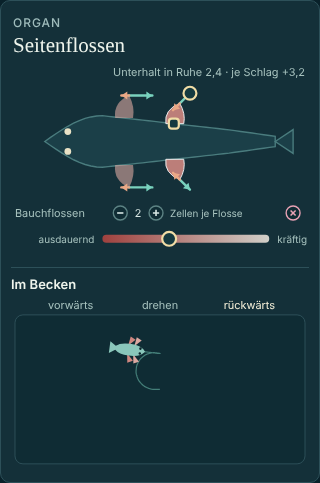
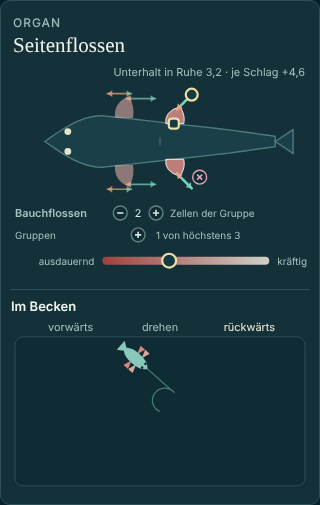
Entwurf Seitenflossen nach Astras Befund: Zellgruppen je Flosse mit eigenem Anteil nach vorn/hinten (gemischte Gruppen heben sich auf), das Gehirn treibt rudernde und bremsende Gruppen getrennt
Claude-Session: https://claude.ai/code/session_01SAD6gcsuZjdDe9bFzLa7Yk

diff --git a/entwuerfe/inspektoren.html b/entwuerfe/inspektoren.html
@@ -2178,90 +2178,96 @@ function mouthFrame(now) {
 requestAnimationFrame(mouthFrame);
 
 // ---------- Seitenflossen ----------
-// Side fins (body_plan.cc:97–131, 1540–1596, movement.cc:83–99). At most two fins a side, the
-// pectoral in front and the pelvic behind; both sides alike here. A fin's cells pull its back
-// stroke with 1 − p of their force and its front stroke with p (p = protraction); the stroke
-// runs at q · 90° to the body's axis (here 0 = along it), so it pushes cos and sideways sin of its
-// force, and turns the fish by push·|lever| + sideways·arm (arm: ahead of the middle or behind).
-// A back stroke drives forward, a front stroke brakes and drives backward. After its
-// antagonist or from rest a stroke sweeps fully; the same again before the fin is back only 0.3;
-// both at once cancel and still cost.
-// Above: the fish from above with its fins; each fin shows its stroke as two arrows from its tip,
-// backward (forward drive) and forward (braking); the arrow tip is the grip: its direction is the
-// stroke's, its length the share. The fin's root slides along the body. Below: a small fish with
-// exactly these fins in a pool, rowing forward, turning on the spot and backing, with its track.
-const FINS = {fins : [{kind : 'Brustflossen', at : .34, q : 0, p : .25, cells : 3, fast : .6}], chosen : 0};
+// Side fins (body_plan.cc:97–131, 405–417, 486–539, 1540–1596, movement.cc:83–99; Astra 19:10).
+// At most two fins a side: the foremost group of cells is the pectoral fin, one behind it the
+// pelvic. A fin's stroke runs at q · 90° to the body's axis. Each group of cells pulls the back
+// stroke with 1 − p of its force and the front stroke with p (p = protraction), both at once when
+// the brain drives the group, so a mixed group cancels its shared part and pays for it: its net is
+// (1 − 2p) of its force, backward if p < ½. Groups with p near 0 and near 1 the brain can drive
+// apart: that is how a fish rows, brakes and backs. A stroke turns the fish by cos·|cross lever|
+// + sin·length lever (ahead of the middle or behind; a sideways stroke at the middle does not
+// turn). Both sides alike here.
+// Above: the fish from above; each group of a fin is an arrow pair at the fin's tip: back (forward
+// drive, teal) and front (braking, orange), as long as its shares; the chosen group's back arrow
+// is the grip (direction = stroke, length = share). Below: a small fish with these fins; the brain
+// drives the groups that row (p < ½) to go forward, the rowing ones on one side and the braking ones
+// on the other to turn, the braking ones to back; whatever the groups can do, the fish does.
+const FINS = {fins : [{kind : 'Brustflossen', at : .34, q : 0, groups : [{p : .1, cells : 3, fast : .6}, {p : .9, cells : 2, fast : .6}]}], chosen : 0, group : 0};
 const FIN_ZONE = {Brustflossen : [.22, .44], Bauchflossen : [.48, .68]};
-const finForce = f => f.cells * forceOf(f.fast);
-// The fish from above: nose to the left; its outline's half width at a share x of its length.
+const groupForce = g => g.cells * forceOf(g.fast);
 const TOP = {x0 : 34, x1 : 266, y : 78, half : 26};
 const topHalf = x => { const u = clamp(x, 0, 1); return TOP.half * (u < .25 ? Math.sin(Math.PI / 2 * u / .25) : u < .8 ? 1 - .55 * (u - .25) / .55 : .45 - .25 * (u - .8) / .2); };
 const topX = u => TOP.x0 + (TOP.x1 - TOP.x0) * u;
 function drawFins() {
   const svg = document.getElementById('finfish'); svg.replaceChildren();
-  const F = FINS, redraw = drawFins;
-  const rest = F.fins.reduce((t, f) => t + 2 * f.cells * Math.pow(.25, f.fast), 0) * .48;
-  txt(svg, 296, 12, `Unterhalt in Ruhe ${fmt(rest)} · je Schlag +${fmt(F.fins.reduce((t, f) => t + 2 * finForce(f), 0) * .3)}`, {'text-anchor' : 'end'});
-  // Body.
+  const F = FINS, redraw = drawFins, all = F.fins.flatMap(f => f.groups);
+  const rest = all.reduce((t, g) => t + 2 * g.cells * Math.pow(.25, g.fast), 0) * .48;
+  txt(svg, 296, 12, `Unterhalt in Ruhe ${fmt(rest)} · je Schlag +${fmt(all.reduce((t, g) => t + 2 * groupForce(g), 0) * .3)}`, {'text-anchor' : 'end'});
   const pts = Array.from({length : 41}, (_, k) => k / 40);
   el('path', {d : 'M' + pts.map(u => `${topX(u).toFixed(1)} ${(TOP.y - topHalf(u)).toFixed(1)}`).join(' L') + ' L' + [...pts].reverse().map(u => `${topX(u).toFixed(1)} ${(TOP.y + topHalf(u)).toFixed(1)}`).join(' L') + ' Z', fill : '#1b3f48', stroke : '#4a7c7e', 'stroke-width' : 1.4}, svg);
   el('path', {d : `M${topX(1)} ${TOP.y} l18 -12 v24 z`, fill : '#1b3f48', stroke : '#4a7c7e', 'stroke-width' : 1.4}, svg);
   for (const s of [-1, 1]) el('circle', {cx : topX(.1), cy : TOP.y + s * 10, r : 3.4, fill : '#e9e2c6'}, svg);
-  // Each fin on both sides; the chosen one carries the grips (on the upper side).
+  el('path', {d : `M${topX(.5)} ${TOP.y - 4} v8`, stroke : '#4a7c7e'}, svg);
   F.fins.forEach((f, i) => {
-    const zone = FIN_ZONE[f.kind], x = topX(f.at), force = finForce(f), len = 16 + 2.2 * f.cells;
+    const zone = FIN_ZONE[f.kind], x = topX(f.at), cells = f.groups.reduce((t, g) => t + g.cells, 0), len = 14 + 1.6 * cells;
     for (const s of [-1, 1]) {
-      const y = TOP.y + s * topHalf(f.at), tipX = x + 6, tipY = y + s * len;
-      el('path', {d : `M${x - 8} ${y} Q${x - 10} ${y + s * len * .7} ${tipX} ${tipY} Q${x + 12} ${y + s * len * .5} ${x + 10} ${y} Z`, fill : fibreColour(f.fast), opacity : i === F.chosen ? .9 : .6, stroke : i === F.chosen ? '#ffffff' : 'none', 'stroke-width' : 1, class : 'chip'}, svg)
-        .addEventListener('pointerdown', () => { F.chosen = i; redraw(); });
-      // The stroke: backward arrow (drive) and forward arrow (brake), turned by q outward.
-      const a = Math.PI / 2 * f.q, back = [Math.cos(a), s * Math.sin(a)], scale = 18 + 22 * force / 6;
-      const arrow = (dir, share, colour) => { const ex = tipX + dir[0] * scale * share, ey = tipY + dir[1] * scale * share;
-        el('path', {d : `M${tipX} ${tipY} L${ex} ${ey}`, stroke : colour, 'stroke-width' : 2.4, 'stroke-linecap' : 'round'}, svg);
-        const hx = ex - dir[0] * 6, hy = ey - dir[1] * 6;
-        el('path', {d : `M${ex} ${ey} L${hx - dir[1] * 4} ${hy + dir[0] * 4} L${hx + dir[1] * 4} ${hy - dir[0] * 4} Z`, fill : colour}, svg);
-        return [ex, ey]; };
-      const [bx, by] = arrow(back, 1 - f.p, '#79d2be');
-      arrow([-back[0], -back[1]], f.p, '#eaa886');
-      if (i === F.chosen && s === -1) {
-        // Grip at the tip of the backward arrow: direction = stroke, length = share of the back stroke.
-        drag(svg, el('circle', {cx : bx, cy : by, r : 6.5}, svg), q => {
-          const dx = q.x - tipX, dy = (q.y - tipY) * s, d = Math.hypot(dx, dy);
-          f.q = clamp(Math.atan2(dy, dx) / (Math.PI / 2), -1, 1); f.p = clamp(1 - d / scale, 0, 1); redraw(); }, 'finstroke');
-        // Grip at the root: along the body within the fin's zone.
-        drag(svg, el('rect', {x : x - 5, y : y - 5, width : 10, height : 10, rx : 3}, svg), q => { f.at = clamp((q.x - TOP.x0) / (TOP.x1 - TOP.x0), zone[0], zone[1]); redraw(); }, 'finroot');
-      }
+      const y = TOP.y + s * topHalf(f.at), tipX = x + 6, tipY = y + s * len, mean = f.groups.reduce((t, g) => t + g.fast * g.cells, 0) / Math.max(1, cells);
+      el('path', {d : `M${x - 8} ${y} Q${x - 10} ${y + s * len * .7} ${tipX} ${tipY} Q${x + 12} ${y + s * len * .5} ${x + 10} ${y} Z`, fill : fibreColour(mean), opacity : i === F.chosen ? .9 : .6, stroke : i === F.chosen ? '#ffffff' : 'none', 'stroke-width' : 1, class : 'chip'}, svg)
+        .addEventListener('pointerdown', () => { F.chosen = i; F.group = 0; redraw(); });
+      const a = Math.PI / 2 * f.q, back = [Math.cos(a), s * Math.sin(a)];
+      f.groups.forEach((g, k) => {
+        const scale = 14 + 26 * groupForce(g) / 6, chosen = i === F.chosen && k === F.group, off = (k - (f.groups.length - 1) / 2) * 5;
+        const ox = tipX - back[1] * off * s, oy = tipY + back[0] * off * s;
+        const arrow = (dir, share, colour) => { const ex = ox + dir[0] * scale * share, ey = oy + dir[1] * scale * share;
+          el('path', {d : `M${ox} ${oy} L${ex} ${ey}`, stroke : colour, 'stroke-width' : chosen ? 2.6 : 1.6, 'stroke-linecap' : 'round', opacity : chosen ? 1 : .7}, svg);
+          if (share > .08) { const hx = ex - dir[0] * 5, hy = ey - dir[1] * 5; el('path', {d : `M${ex} ${ey} L${hx - dir[1] * 3.5} ${hy + dir[0] * 3.5} L${hx + dir[1] * 3.5} ${hy - dir[0] * 3.5} Z`, fill : colour, opacity : chosen ? 1 : .7}, svg); }
+          return [ex, ey]; };
+        const [bx, by] = arrow(back, 1 - g.p, '#79d2be');
+        arrow([-back[0], -back[1]], g.p, '#eaa886');
+        if (s === -1) {
+          if (chosen) drag(svg, el('circle', {cx : bx, cy : by, r : 6}, svg), q => {
+            const dx = q.x - ox, dy = (q.y - oy) * s, d = Math.hypot(dx, dy);
+            f.q = clamp(Math.atan2(dy, dx) / (Math.PI / 2), -1, 1); g.p = clamp(1 - d / scale, 0, 1); redraw(); }, 'finstroke');
+          else el('circle', {cx : bx, cy : by, r : 5, class : 'chip', style : 'fill:transparent;stroke:none'}, svg).addEventListener('pointerdown', () => { F.chosen = i; F.group = k; redraw(); });
+        }
+      });
+      if (i === F.chosen && s === -1) drag(svg, el('rect', {x : x - 5, y : y - 5, width : 10, height : 10, rx : 3}, svg), q => { f.at = clamp((q.x - TOP.x0) / (TOP.x1 - TOP.x0), zone[0], zone[1]); redraw(); }, 'finroot');
     }
   });
-  // Cells of the chosen pair and the second pair: (+) adds the pelvic fins, (×) takes them away.
-  const f = F.fins[F.chosen], cy = 150;
-  txt(svg, 4, cy + 4, f.kind);
-  signChip(svg, 110, cy, '−', () => { f.cells = Math.max(1, f.cells - 1); redraw(); }, f.cells > 1, 7);
-  txt(svg, 128, cy + 4, f.cells, {'text-anchor' : 'middle', class : 'value'});
-  signChip(svg, 146, cy, '+', () => { f.cells = Math.min(8, f.cells + 1); redraw(); }, f.cells < 8, 7);
-  txt(svg, 160, cy + 4, 'Zellen je Flosse', {style : 'font-size:10px'});
-  if (F.fins.length < 2) { signChip(svg, topX(.58), TOP.y + topHalf(.58) + 22, '+', () => { F.fins.push({kind : 'Bauchflossen', at : .56, q : .2, p : .4, cells : 2, fast : .4}); F.chosen = 1; redraw(); }, true, 8); txt(svg, topX(.58) + 12, TOP.y + topHalf(.58) + 26, 'Bauchflossen', {style : 'font-size:10px'}); }
-  else signChip(svg, 284, cy, '×', () => { F.fins.splice(1, 1); F.chosen = 0; redraw(); }, true, 7);
-  // Fibres of the chosen pair, as at the tail.
-  const fy = cy + 26, fx0 = 92, fx1 = 260;
+  // The chosen fin's chosen group: cells and fibres; groups added (+) or taken away (×).
+  const f = F.fins[F.chosen], g = f.groups[F.group], cy = 150;
+  txt(svg, 4, cy + 4, f.kind, {style : 'font-weight:600'});
+  signChip(svg, 110, cy, '−', () => { g.cells = Math.max(1, g.cells - 1); redraw(); }, g.cells > 1, 7);
+  txt(svg, 128, cy + 4, g.cells, {'text-anchor' : 'middle', class : 'value'});
+  signChip(svg, 146, cy, '+', () => { g.cells = Math.min(8, g.cells + 1); redraw(); }, g.cells < 8, 7);
+  txt(svg, 160, cy + 4, 'Zellen der Gruppe', {style : 'font-size:10px'});
+  if (f.groups.length > 1) signChip(svg, 284, cy, '×', () => { f.groups.splice(F.group, 1); F.group = 0; redraw(); }, true, 7);
+  const gy = cy + 22;
+  txt(svg, 4, gy + 4, 'Gruppen', {style : 'font-size:10px'});
+  signChip(svg, 128, gy, '+', () => { f.groups.push({p : g.p < .5 ? .9 : .1, cells : 2, fast : g.fast}); F.group = f.groups.length - 1; redraw(); }, f.groups.length < 3, 7);
+  txt(svg, 146, gy + 4, f.groups.length + ' von höchstens 3', {style : 'font-size:10px'});
+  const fy = gy + 26, fx0 = 92, fx1 = 260;
+  if (!document.getElementById('fibregrad')) { const gr = el('linearGradient', {id : 'fibregrad'}, el('defs', {}, svg)); el('stop', {offset : 0, 'stop-color' : fibreColour(0)}, gr); el('stop', {offset : 1, 'stop-color' : fibreColour(1)}, gr); }
   el('rect', {x : fx0, y : fy - 4, width : fx1 - fx0, height : 8, rx : 4, fill : 'url(#fibregrad)', opacity : .85}, svg);
-  drag(svg, el('circle', {cx : fx0 + (fx1 - fx0) * f.fast, cy : fy, r : 7}, svg), q => { f.fast = clamp((q.x - fx0) / (fx1 - fx0), 0, 1); redraw(); }, 'finfibre');
+  drag(svg, el('circle', {cx : fx0 + (fx1 - fx0) * g.fast, cy : fy, r : 7}, svg), q => { g.fast = clamp((q.x - fx0) / (fx1 - fx0), 0, 1); redraw(); }, 'finfibre');
   txt(svg, fx0 - 8, fy + 4, 'ausdauernd', {'text-anchor' : 'end', style : 'font-size:10px'}); txt(svg, fx1 + 8, fy + 4, 'kräftig', {style : 'font-size:10px'});
-  if (!svg.querySelector('#fibregrad')) { const gr = el('linearGradient', {id : 'fibregrad'}, el('defs', {}, svg)); el('stop', {offset : 0, 'stop-color' : fibreColour(0)}, gr); el('stop', {offset : 1, 'stop-color' : fibreColour(1)}, gr); }
+  // The second pair: (+) where the pelvic fins would sit, (×) when chosen.
+  if (F.fins.length < 2) { signChip(svg, topX(.58), TOP.y + topHalf(.58) + 22, '+', () => { F.fins.push({kind : 'Bauchflossen', at : .56, q : .3, groups : [{p : .2, cells : 2, fast : .4}]}); F.chosen = 1; F.group = 0; redraw(); }, true, 8); txt(svg, topX(.58) + 12, TOP.y + topHalf(.58) + 26, 'Bauchflossen', {style : 'font-size:10px'}); }
+  else if (F.chosen === 1) signChip(svg, topX(F.fins[1].at) + 26, TOP.y + topHalf(F.fins[1].at) + 18, '×', () => { F.fins.splice(1, 1); F.chosen = 0; F.group = 0; redraw(); }, true, 7);
   svg.setAttribute('viewBox', `0 0 300 ${fy + 12}`);
   FINPOOL.reset = true;
 }
-// ---- The pool: a small fish with these fins rows forward, turns on the spot and backs, in a
-// loop; its track stays. Per stroke the drives are the engine's sums over its fins. ----
+// ---- The pool. Per maneuver the brain drives, on each side, the groups that row (p < ½) or that
+// brake (p > ½); a driven group's net is (1 − 2p) of its force along its stroke. ----
 const FINPOOL = {g : null, trail : [], reset : true};
-const FIN_MOVES = [['vorwärts', 1, 1], ['drehen', 1, -1], ['rückwärts', -1, -1]];
+const FIN_MOVES = [['vorwärts', 'row', 'row'], ['drehen', 'row', 'brake'], ['rückwärts', 'brake', 'brake']];
 function finDrives(left, right) {
-  // left/right: +1 back stroke, −1 front stroke, per side; returns push, across and turn.
   let push = 0, across = 0, turn = 0;
   for (const f of FINS.fins) {
-    const a = Math.PI / 2 * f.q, force = finForce(f), arm = .5 - f.at, lever = .3;
-    for (const [side, cmd] of [[0, left], [1, right]]) {
-      const share = cmd > 0 ? 1 - f.p : f.p, net = cmd * force * share;
+    const a = Math.PI / 2 * f.q, arm = .5 - f.at, lever = .3;
+    for (const [side, want] of [[0, left], [1, right]]) for (const g of f.groups) {
+      if ((want === 'row') !== (g.p < .5)) continue;
+      const net = groupForce(g) * (1 - 2 * g.p);
       push += net * Math.cos(a);
       across += (side ? -1 : 1) * net * Math.sin(a);
       turn += (side ? -1 : 1) * net * (Math.cos(a) * lever + Math.sin(a) * arm);
@@ -2284,7 +2290,6 @@ function finFrame(now) {
   if (P.reset || (P.lastK === 2 && k === 0)) { P.x = 150; P.y = 93; P.angle = Math.PI; P.v = 0; P.vs = 0; P.w = 0; P.trail = []; P.reset = false; }
   P.lastK = k;
   P.labels.forEach((l, j) => l.setAttribute('style', j === k ? 'fill:#f4efd8' : ''));
-  // Strokes in a rhythm: a stroke, a rest as long, so each sweeps fully.
   const beat = (t % 400) < 200, [, left, right] = FIN_MOVES[k];
   const d = beat ? finDrives(left, right) : {push : 0, across : 0, turn : 0};
   P.v = P.v * .96 + .012 * d.push; P.vs = P.vs * .9 + .01 * d.across; P.w = P.w * .9 + .0025 * d.turn;
@@ -2293,14 +2298,13 @@ function finFrame(now) {
   P.x = clamp(P.x + P.v * hx - P.vs * hy, 20, 280); P.y = clamp(P.y + P.v * hy + P.vs * hx, 30, 156);
   P.trail.push([P.x, P.y]); if (P.trail.length > 400) P.trail.shift();
   P.track.setAttribute('d', 'M' + P.trail.map(([x, y]) => `${x.toFixed(1)} ${y.toFixed(1)}`).join(' L'));
-  // The small fish: body, and its fins flapping with the strokes.
   const flap = beat ? Math.sin((t % 200) / 200 * Math.PI) : 0, deg = P.angle * 180 / Math.PI;
   let fins = '';
   for (const f of FINS.fins) {
-    const fx = 14 - 28 * f.at;
-    for (const [s, cmd] of [[-1, left], [1, right]]) {
-      const swing = cmd * flap * 35 * s;
-      fins += `<path d="M${fx} ${s * 4} l${-3} ${s * 9} l6 0 z" fill="${fibreColour(f.fast)}" transform="rotate(${swing.toFixed(1)} ${fx} ${s * 4})"/>`;
+    const fx = 14 - 28 * f.at, mean = f.groups.reduce((t2, g) => t2 + g.fast, 0) / f.groups.length;
+    for (const [s, want] of [[-1, left], [1, right]]) {
+      const driven = f.groups.some(g => (want === 'row') === (g.p < .5)), swing = driven ? (want === 'row' ? 1 : -1) * flap * 35 * s : 0;
+      fins += `<path d="M${fx} ${s * 4} l${-3} ${s * 9} l6 0 z" fill="${fibreColour(mean)}" transform="rotate(${swing.toFixed(1)} ${fx} ${s * 4})"/>`;
     }
   }
   P.g.innerHTML = `<g transform="translate(${P.x.toFixed(1)} ${P.y.toFixed(1)}) rotate(${deg.toFixed(1)})">${fins}<path d="M16 0 Q12 -6 0 -6 Q-10 -6 -14 -2 L-20 -6 L-20 6 L-14 2 Q-10 6 0 6 Q12 6 16 0 Z" fill="#8ac7bb"/><circle cx="11" cy="-2.5" r="1.3" fill="#0d262c"/><circle cx="11" cy="2.5" r="1.3" fill="#0d262c"/></g>`;
